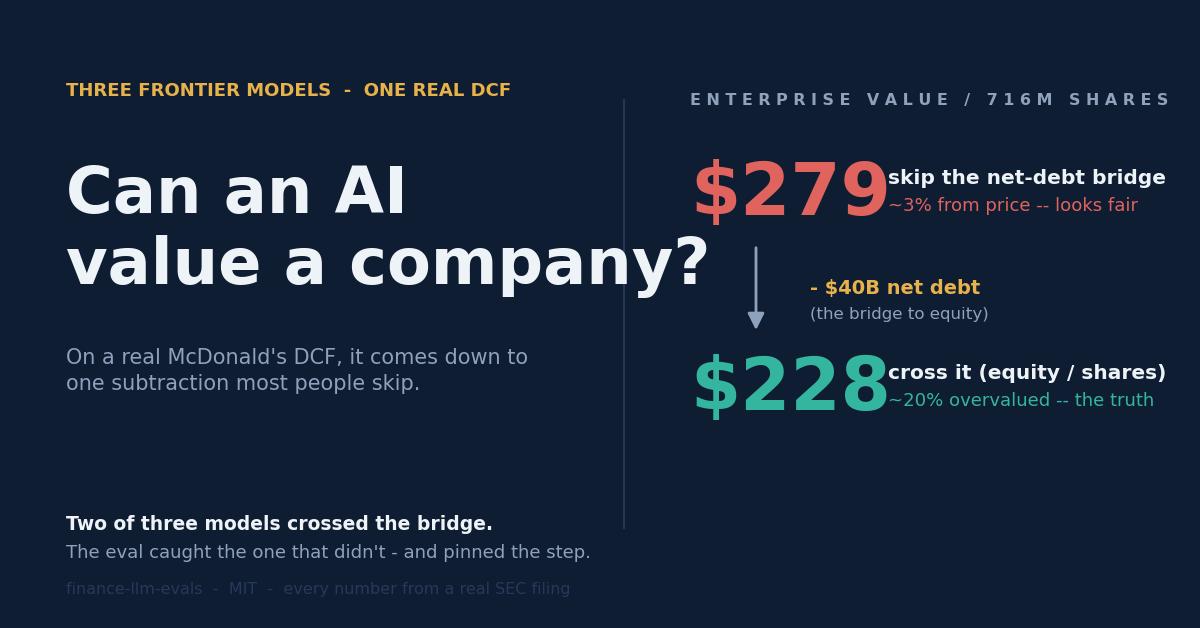
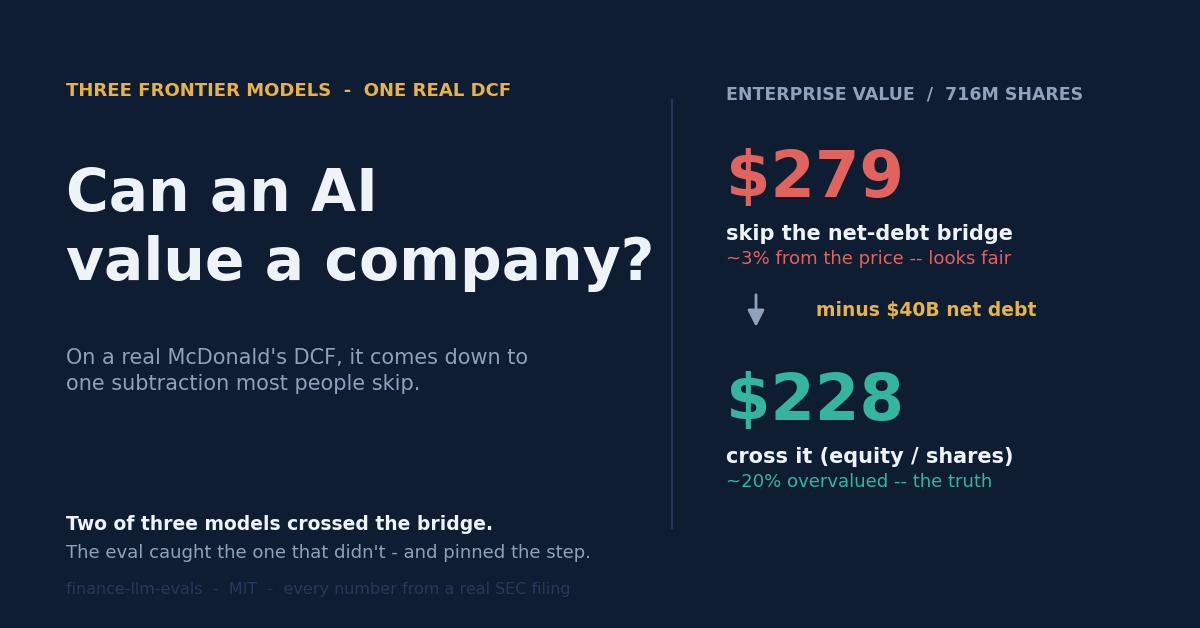
Fix the wide eval-#3 hero layout: stacked labels, no collisions
The first wide version crammed the descriptors against the big $279/$228
numbers and let the headline crowd the gutter. Restacked: each number sits on
its own line with its label below it, the headline shrank slightly and the
gutter/right-column moved right for clear separation.

diff --git a/assets/make_hero_eval3_wide.py b/assets/make_hero_eval3_wide.py
@@ -26,15 +26,15 @@ W, H = 1200, 628
 fig = plt.figure(figsize=(W / 100, H / 100), dpi=100)
 ax = fig.add_axes([0, 0, 1, 1]); ax.set_xlim(0, 1); ax.set_ylim(0, 1); ax.axis("off")
 ax.add_patch(Rectangle((0, 0), 1, 1, color=BG, zorder=0))
-# thin amber rule down the middle gutter
-ax.plot([0.520, 0.520], [0.16, 0.84], color=FAINT, lw=1.4, zorder=1)
+# thin rule down the middle gutter
+ax.plot([0.560, 0.560], [0.16, 0.84], color=FAINT, lw=1.4, zorder=1)
 
 # ---------------- LEFT: the question ----------------
 LX = 0.055
 ax.text(LX, 0.855, "THREE FRONTIER MODELS  -  ONE REAL DCF",
         fontsize=13, color=AMBER, weight="bold", va="center")
-ax.text(LX, 0.690, "Can an AI", fontsize=46, color=WHITE, weight="bold", va="center")
-ax.text(LX, 0.575, "value a company?", fontsize=46, color=WHITE, weight="bold", va="center")
+ax.text(LX, 0.690, "Can an AI", fontsize=42, color=WHITE, weight="bold", va="center")
+ax.text(LX, 0.580, "value a company?", fontsize=42, color=WHITE, weight="bold", va="center")
 ax.text(LX, 0.430, "On a real McDonald's DCF, it comes down to",
         fontsize=15, color=MUTE, va="center")
 ax.text(LX, 0.388, "one subtraction most people skip.",
@@ -46,26 +46,25 @@ ax.text(LX, 0.120, "The eval caught the one that didn't - and pinned the step.",
 ax.text(LX, 0.062, "finance-llm-evals  -  MIT  -  every number from a real SEC filing",
         fontsize=11.5, color=FAINT, va="center")
 
-# ---------------- RIGHT: the trap (enterprise value / shares) ----------------
-RX = 0.575
-ax.text(RX, 0.840, "E N T E R P R I S E   V A L U E   /   7 1 6 M   S H A R E S",
-        fontsize=11.5, color=MUTE, weight="bold", va="center")
+# ---------------- RIGHT: the trap (enterprise value / shares) -- stacked, no horizontal collisions ----------------
+RX = 0.605
+ax.text(RX, 0.850, "ENTERPRISE VALUE  /  716M SHARES",
+        fontsize=12.5, color=MUTE, weight="bold", va="center")
 
-# wrong path
-ax.text(RX, 0.690, "$279", fontsize=52, color=RED, weight="bold", va="center")
-ax.text(RX + 0.165, 0.715, "skip the net-debt bridge", fontsize=14.5, color=WHITE, va="center", weight="bold")
-ax.text(RX + 0.165, 0.672, "~3% from price -- looks fair", fontsize=13, color=RED, va="center")
+# wrong path -- number on its own line, label stacked BELOW it
+ax.text(RX, 0.715, "$279", fontsize=46, color=RED, weight="bold", va="center")
+ax.text(RX, 0.628, "skip the net-debt bridge", fontsize=15, color=WHITE, weight="bold", va="center")
+ax.text(RX, 0.588, "~3% from the price -- looks fair", fontsize=13, color=RED, va="center")
 
-# the bridge step between them
-ax.add_patch(FancyArrowPatch((RX + 0.055, 0.610), (RX + 0.055, 0.470),
+# the bridge step between the two numbers
+ax.add_patch(FancyArrowPatch((RX + 0.025, 0.535), (RX + 0.025, 0.475),
              arrowstyle="-|>,head_width=5,head_length=10", color=MUTE, lw=2.0, zorder=4))
-ax.text(RX + 0.10, 0.540, "- $40B net debt", fontsize=14, color=AMBER, weight="bold", va="center")
-ax.text(RX + 0.10, 0.500, "(the bridge to equity)", fontsize=12, color=MUTE, va="center")
+ax.text(RX + 0.075, 0.505, "minus $40B net debt", fontsize=13.5, color=AMBER, weight="bold", va="center")
 
 # right path
-ax.text(RX, 0.380, "$228", fontsize=52, color=TEAL, weight="bold", va="center")
-ax.text(RX + 0.165, 0.405, "cross it (equity / shares)", fontsize=14.5, color=WHITE, va="center", weight="bold")
-ax.text(RX + 0.165, 0.362, "~20% overvalued -- the truth", fontsize=13, color=TEAL, va="center")
+ax.text(RX, 0.360, "$228", fontsize=46, color=TEAL, weight="bold", va="center")
+ax.text(RX, 0.273, "cross it (equity / shares)", fontsize=15, color=WHITE, weight="bold", va="center")
+ax.text(RX, 0.233, "~20% overvalued -- the truth", fontsize=13, color=TEAL, va="center")
 
 fig.savefig(os.path.join(HERE, "hero-eval3-wide.png"), dpi=100, facecolor=BG)
 print("wrote", os.path.join(HERE, "hero-eval3-wide.png"))